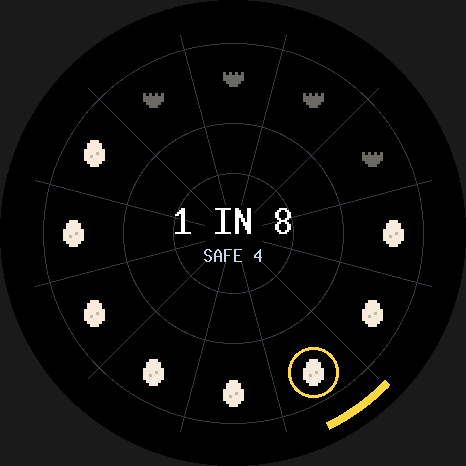
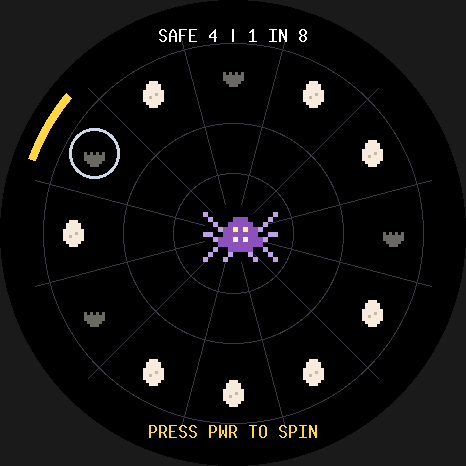
docs: Spider Roulette's PWR spin and dancing spider, the Skate halfpipe, new heap numbers; screenshots; devlog beats 20-21

diff --git a/docs/ESP32_PLATFORM.md b/docs/ESP32_PLATFORM.md
@@ -73,7 +73,7 @@ crates/orbit_ui      #![no_std] shared drawing: Button, battery level, sleep ove
 crates/arcade        #![no_std] the boot menu: a dial over the games and SETTINGS (mute).
 crates/angler_game   #![no_std] Angler (fishing; one phase-machine resource, no Bevy states).
 crates/spider_game   #![no_std] Spider Roulette (twelve eggs, one spider).
-crates/skate_game    #![no_std] Skate (rotation pops and lands ollies).
+crates/skate_game    #![no_std] Skate (rotation pops and lands ollies; halfpipe tricks).
 crates/bees_game     #![no_std] Bees??? (the Moon's honey jar; bees wear Angler's hat).
 crates/orbit_game    #![no_std] Orbit (circular pong, touch only; uses Bevy states).
 desktop/             std simulator for the arcade or any one game (minifb window, RAM model
@@ -343,9 +343,9 @@ Measured **[verified]** with `tools/heap32/run.sh`:
 |---|---|---|---|---|
 | Orbit | 205 KB | 213 KB | 265 KB | **12 KB** |
 | Angler | 199 KB | 203 KB | 204 KB | **73 KB** |
+| Skate | 190 KB | 194 KB | 194 KB | **82 KB** |
 | Bees??? | 188 KB | 192 KB | 192 KB | **84 KB** |
-| Skate | 187 KB | 190 KB | 191 KB | **86 KB** |
-| Spider Roulette | 182 KB | 184 KB | 185 KB | **91 KB** |
+| Spider Roulette | 184 KB | 186 KB | 187 KB | **90 KB** |
 | Arcade menu | 179 KB | 181 KB | 182 KB | **95 KB** |
 
 The arcade firmware drops each app before building the next (`Board::run` returns the app,
@@ -448,10 +448,12 @@ Other memory facts:
     - Angler: two fish landed by a scripted steady-hand player, their gold spent in the hat
       shop (MENU from aiming, then SHOP and BUY), the log, settings and inventory written
       through `esp-storage` into emulated flash at 0x9000 and read back equal, and 0 B in PSRAM.
-    - Spider Roulette: rotation aims at each egg in turn and PWR cracks it until the hidden
-      spider pounces exactly where it was hidden; the SPDR section reaches flash.
-    - Skate: a rider who pops just before each obstacle survives 20 s of game time, a cone
-      then bails it, and the SKAT section reaches flash.
+    - Spider Roulette: PWR spins again and again (each spin rigged to stop on the next egg)
+      until the spider pounces from exactly the egg it was hidden in; the SPDR section
+      reaches flash.
+    - Skate: a rider who pops just before each obstacle survives 30 s of game time, through
+      the halfpipe at 150 m and back out; a cone then bails it, and the SKAT section reaches
+      flash.
     - Bees???: a steady hand keeps 90%+ of the honey for 20 s, tipping empties the jar, and
       the BEES section reaches flash.
     - Arcade: the menu launches each game by rotation and PWR, HOME returns, twice round;
@@ -862,7 +864,9 @@ the hat the angler wears.
 secondary.
 - `orbit_ui::dial_choice(steer, n)` picks one of `n` options spaced round the glass from 12
   o'clock, with the pointer at 3x the turn (`DIAL_GAIN`), so +-60 degrees reaches all of
-  them. The menu and Spider Roulette draw it as a gold arc on the rim.
+  them. The menu draws it as a gold arc on the rim.
+- Rotation is the default, not a rule: Spider Roulette is pure chance, so PWR (or a tap)
+  just spins.
 - The menu and every game re-level (`Tilt::request_zero`) when they start a round, so
   however the device is held is "level".
 
@@ -873,11 +877,16 @@ middle. SETTINGS is a two-option dial, SOUND ON/OFF (`preferences::set_muted`, a
 
 **Spider Roulette** (`crates/spider_game`):
 - **Board:** twelve eggs on a web at radius 160; one hides the spider, re-hidden each round.
-  PWR or a tap cracks the aimed egg.
-- **Tension:** safe eggs show a shell and shorten the odds in the middle ("1 IN 12" down to
-  "1 IN 2"). A heartbeat speeds up from 1.25 s to 0.35 s between beats.
-- **Endings:** the spider's egg pounces (three bounds over a red flash, a screech, then GOT
-  YOU!). Eleven safe eggs trap it. The best run of safe picks persists.
+  A purple spider dances in the middle: it bobs and sways to the heartbeat and turns round
+  every four beats.
+- **The spin:** PWR or a tap spins a pointer round the ring, `SPIN_TURNS` (3) turns plus the
+  way to an egg picked uniformly among the whole ones, with a cubic ease-out over
+  `SPIN_SECS` (2.4 s). A tick sounds at each egg it passes. The egg it stops on cracks.
+- **Tension:** safe eggs show a shell and shorten the odds at the top ("SAFE n | 1 IN 12"
+  down to "1 IN 2"). A heartbeat speeds up from 1.25 s to 0.35 s between beats.
+- **Endings:** on the spider's egg, the dancer pounces at the glass (three bounds over a red
+  flash, a screech, then GOT YOU!). Eleven safe eggs trap it. The best run of safe eggs
+  persists.
 
 **Skate** (`crates/skate_game`):
 - **Controls:** a counterclockwise turn past `POP_DEG` (15) pops an ollie. The next pop
@@ -889,8 +898,16 @@ middle. SETTINGS is a two-option dial, SOUND ON/OFF (`preferences::set_muted`, a
   spawn at random gaps scaled by speed.
 - **Score:** metres (30 px each), plus 10 per clean landing, plus grind time. The best
   persists.
+- **Halfpipe:** every `HALFPIPE_EVERY_M` (150 m) the street empties (no spawns in the last
+  20 m) and drops into a halfpipe, the bottom half of a 175 px circle. The rider swings
+  wall to wall like a pendulum and leaves each coping at `AIR_SPEED` (520 px/s, about 0.7 s
+  of air). In the air the spin is the device's turn since takeoff times `SPIN_GAIN` (6), so
+  60 degrees of wrist is a 360. Landing within `LAND_SPIN_DEG` (50) of a half turn scores by
+  half turns (AIR 5, 180 15, 360 35, 540 60, 720 90); otherwise it's a SLAM, which scores
+  nothing but doesn't end the run. After `HALFPIPE_SECS` (7) it rolls out at the bottom onto
+  the street; distance and speed are frozen inside.
 - **Playability is pinned by a test:** a rider who pops 0-55 px before each obstacle
-  survives 20 s.
+  survives 30 s, through the halfpipe.
 - **Render cost:** only the rider, obstacles and lane dashes move over the static night city.
 
 **Bees???** (`crates/bees_game`):

diff --git a/README.md b/README.md
@@ -27,12 +27,14 @@ Turning the device like a steering wheel is the main control everywhere; PWR con
     screen goes back to it. Settings has EASY / NORMAL / HARD
     difficulty (saved), RESET (erases the log, gold and hats after a confirm) and **GUTEN**, a riff on logic-fish: a rainbow trout spins to "Guten
     Morgen, Sonnenschein" for 15 s through the board's speaker.
-- **Spider Roulette:** twelve eggs ring a web and one hides a spider. Turn to aim, PWR to
-  crack. Each safe egg shortens the odds and quickens the heartbeat; the spider's egg
-  pounces. Crack all eleven safe ones to trap it.
+- **Spider Roulette:** twelve eggs ring a web and one hides a spider, which dances in the
+  middle. PWR spins a pointer round the ring; it ticks past the eggs, slows, and cracks the
+  one it stops on. Each safe egg shortens the odds and quickens the heartbeat; the spider's
+  egg pounces. Crack all eleven safe ones to trap it.
 - **Skate:** an endless night-street side-scroller. Turn left (nose up) to ollie; in the air
   the board follows your turn, so level out to land. Clear cones; clear benches or land on
-  them to grind. The street speeds up.
+  them to grind. The street speeds up. Every 150 m it drops into a halfpipe for a 7 s
+  freestyle: air off each wall and turn the device to spin a 180, 360, 540 or 720.
 - **Bees???:** the Moon is a hollow jar of honey orbiting the Earth. Something keeps tipping
   it; turn to tip it back before honey pours out (the fuller the jar, the less it takes).
   Bees, wearing the hat from Angler's shop, circle it and fly refills up from Earth.
@@ -46,7 +48,7 @@ through the same software renderer, so the simulator shows the exact pixels the
 panel will get.
 
 ![Arcade menu](screenshots/arcade_spider.png) ![Angler aiming](screenshots/angler_aim.png) ![Angler hat shop](screenshots/angler_shop.png)
-![Spider Roulette](screenshots/spider_pick.png) ![Skate grind](screenshots/skate_grind.png) ![Bees orbit](screenshots/bees_orbit.png)
+![Spider Roulette](screenshots/spider_spin.png) ![Skate halfpipe](screenshots/skate_halfpipe_360.png) ![Bees orbit](screenshots/bees_orbit.png)
 
 ```
 crates/orbit_gfx     no_std rasterizer (embedded-graphics + pixel-art sprites), dirty rects, bands
@@ -174,7 +176,7 @@ GPIO40). The 1.75C variant uses GPIO1 and GPIO2 for those two resets.
 
 Bevy's own bookkeeping (schedules, per-resource tables) dominates. Measured
 with a counting allocator on a 32-bit target, peak heap is 265 KB for Orbit, 204 KB for
-Angler, 192 for Bees???, 191 for Skate, 185 for Spider Roulette and 182 for the menu. The
+Angler, 194 for Skate, 192 for Bees???, 187 for Spider Roulette and 182 for the menu. The
 newer games are leaner because they use one phase resource instead of Bevy states. The arcade
 drops each app before building the next, so only one is ever in memory.
 The firmware gives Bevy about 284 KB of internal SRAM (`INTERNAL_HEAP_BYTES` plus

diff --git a/devlog/beats.md b/devlog/beats.md
@@ -240,3 +240,38 @@ Images are in `img/`. Newest beats go at the bottom.
   | Skate | 191 KB |
   | Bees??? | 192 KB |
   | Angler | 204 KB |
+
+## 20. Spider Roulette becomes a real roulette
+
+- **The feedback:** "it doesn't need orbit select and the button should start the spin,
+  there should just be a dancing spider in the middle."
+- **The lesson:** rotation-first is a default, not a rule. Aiming at an egg made a chance
+  game feel like a skill game, and it was fiddly.
+- **The spin:**
+  - PWR whirls a pointer round the ring: three turns plus the way to a random whole egg,
+    easing out over 2.4 s;
+  - a tick at every egg it passes, so the slowdown is audible;
+  - wherever it stops cracks.
+- **The dancer:** a purple spider in the middle bobs and sways to the heartbeat and turns
+  round every four beats. When its egg comes up, it's the one that pounces at the glass.
+- **Testable chance:** `rig_next_spin(egg)` lets tests and the QEMU smoke choose where a
+  spin stops, so "the spider was where it was hidden" is still checked end to end.
+- Images: `20-spider-dancer.png`, `20-spider-spin.png`.
+
+## 21. Skate: a halfpipe every 150 m
+
+- **The ask:** "every 150 units or so in skateboard there should be a drop into a halfpipe
+  freestyle section for like 7s."
+- **The drop:** the street stops spawning 20 m early so the rider never drops in
+  mid-ollie, then the scene swaps to a halfpipe carved into concrete under the night sky.
+- **The ride:** a pendulum on a 175 px circle. Each coping launches the same 0.7 s air, so
+  every wall is a fair chance at a trick.
+- **Rotation again:** in the air, the skater spins 6x the device's turn since takeoff, so
+  about 60 degrees of wrist is a 360. Land near a whole half turn for AIR, 180, 360, 540 or
+  720 (5 to 90 points). Land crooked and it's a SLAM: no points, but the run goes on.
+- **A rotatable skater:** the street skater is a sprite, which can't turn. In the pipe it's
+  lines and discs instead, built around a "board up" vector, and airs spin about the hips
+  so a 180 doesn't swing the head off the round glass.
+- **Cost:** no new systems or resources, just fields on `Ride`. Peak heap went from 191 to
+  194 KB.
+- Images: `21-skate-drop-in.png`, `21-skate-air.png`, `21-skate-360.png`.

diff --git a/AGENTS.md b/AGENTS.md
@@ -3,8 +3,8 @@
 no_std Bevy 0.19 games for the Waveshare ESP32-S3-Touch-AMOLED-1.75 (466x466 round
 AMOLED, touch, IMU, two buttons). The board boots the **arcade** (`crates/arcade`), a
 rotation dial over **Angler** (fishing: tilt-aimed cast, lean-to-reel fight, fish log,
-gold for a hat shop), **Spider Roulette** (crack eggs, one hides a spider), **Skate**
-(rotation pops and lands ollies) and **Bees???** (keep the Moon's honey jar from
+gold for a hat shop), **Spider Roulette** (PWR spins a pointer round twelve eggs, one hides a spider),
+**Skate** (rotation pops and lands ollies; a halfpipe freestyle every 150 m) and **Bees???** (keep the Moon's honey jar from
 spilling; the bees wear Angler's hat), plus SETTINGS (mute). **Orbit** (circular pong) is
 a separate binary.
 A desktop simulator shares the renderer and the motion/save code.
@@ -40,8 +40,8 @@ Rules that bite:
   `tools/qemu-smoke/src/bin/<game>.rs` (and the arcade smoke), a `measure_<game>` in
   `tools/heap32`, and a desktop `Game` with snapshots.
 - The heap budget is tight: Bevy must fit in about 284 KB of internal SRAM, because
-  PSRAM atomics are unreliable on the S3. Peak headroom: Orbit 12 KB, Angler 73, Bees??? 84,
-  Skate 86, Spider Roulette 91, the menu 95. The arcade drops each app before building the
+  PSRAM atomics are unreliable on the S3. Peak headroom: Orbit 12 KB, Angler 73, Skate 82,
+  Bees??? 84, Spider Roulette 90, the menu 95. The arcade drops each app before building the
   next, so only one is ever in memory.
   After adding plugins, systems, resources or states, run `tools/heap32/run.sh`.
   `tools/qemu-smoke/run.sh` checks the full firmware runtime of every game and the arcade's

diff --git a/CLAUDE.md b/CLAUDE.md
@@ -3,8 +3,8 @@
 no_std Bevy 0.19 games for the Waveshare ESP32-S3-Touch-AMOLED-1.75 (466x466 round
 AMOLED, touch, IMU, two buttons). The board boots the **arcade** (`crates/arcade`), a
 rotation dial over **Angler** (fishing: tilt-aimed cast, lean-to-reel fight, fish log,
-gold for a hat shop), **Spider Roulette** (crack eggs, one hides a spider), **Skate**
-(rotation pops and lands ollies) and **Bees???** (keep the Moon's honey jar from
+gold for a hat shop), **Spider Roulette** (PWR spins a pointer round twelve eggs, one hides a spider),
+**Skate** (rotation pops and lands ollies; a halfpipe freestyle every 150 m) and **Bees???** (keep the Moon's honey jar from
 spilling; the bees wear Angler's hat), plus SETTINGS (mute). **Orbit** (circular pong) is
 a separate binary.
 A desktop simulator shares the renderer and the motion/save code.
@@ -40,8 +40,8 @@ Rules that bite:
   `tools/qemu-smoke/src/bin/<game>.rs` (and the arcade smoke), a `measure_<game>` in
   `tools/heap32`, and a desktop `Game` with snapshots.
 - The heap budget is tight: Bevy must fit in about 284 KB of internal SRAM, because
-  PSRAM atomics are unreliable on the S3. Peak headroom: Orbit 12 KB, Angler 73, Bees??? 84,
-  Skate 86, Spider Roulette 91, the menu 95. The arcade drops each app before building the
+  PSRAM atomics are unreliable on the S3. Peak headroom: Orbit 12 KB, Angler 73, Skate 82,
+  Bees??? 84, Spider Roulette 90, the menu 95. The arcade drops each app before building the
   next, so only one is ever in memory.
   After adding plugins, systems, resources or states, run `tools/heap32/run.sh`.
   `tools/qemu-smoke/run.sh` checks the full firmware runtime of every game and the arcade's
